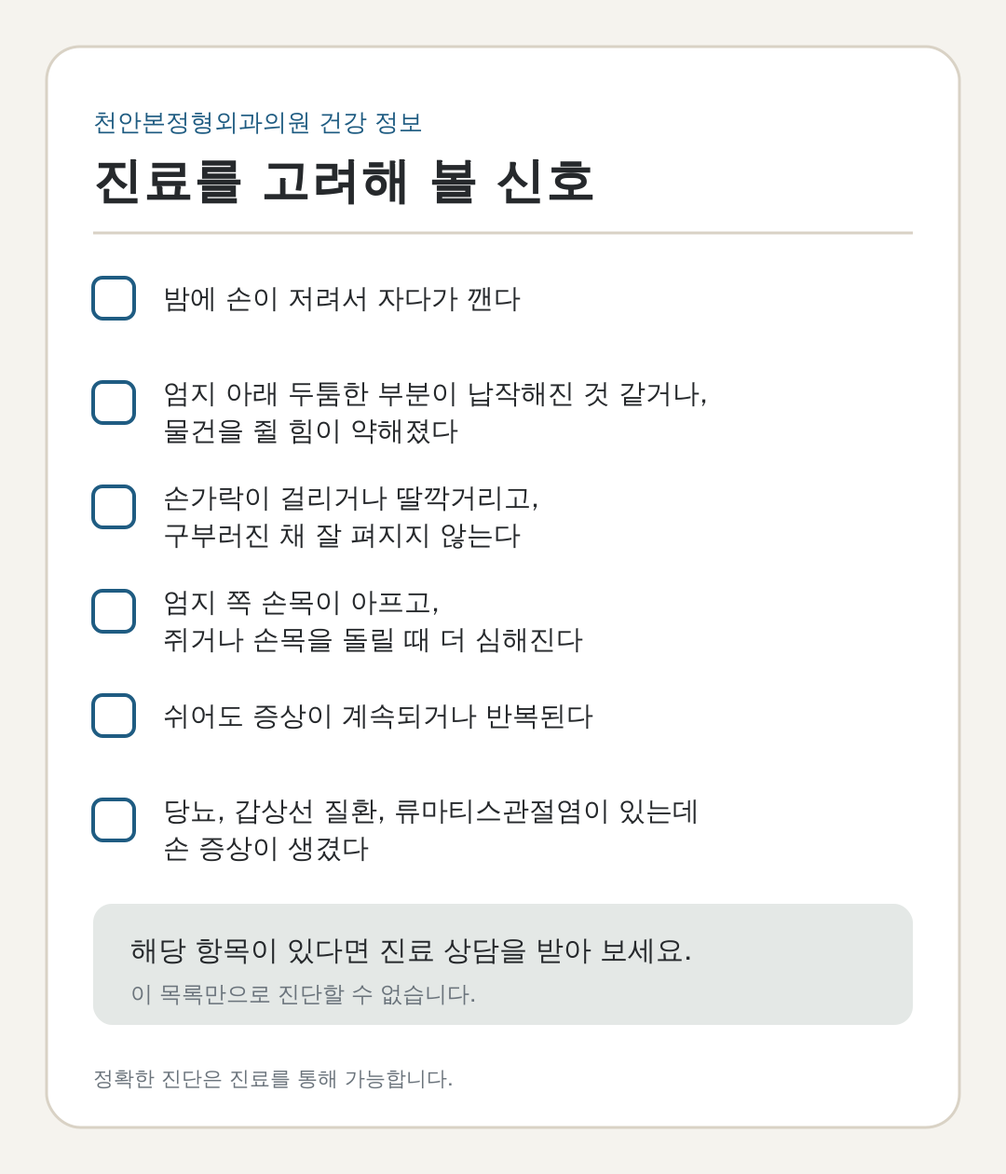
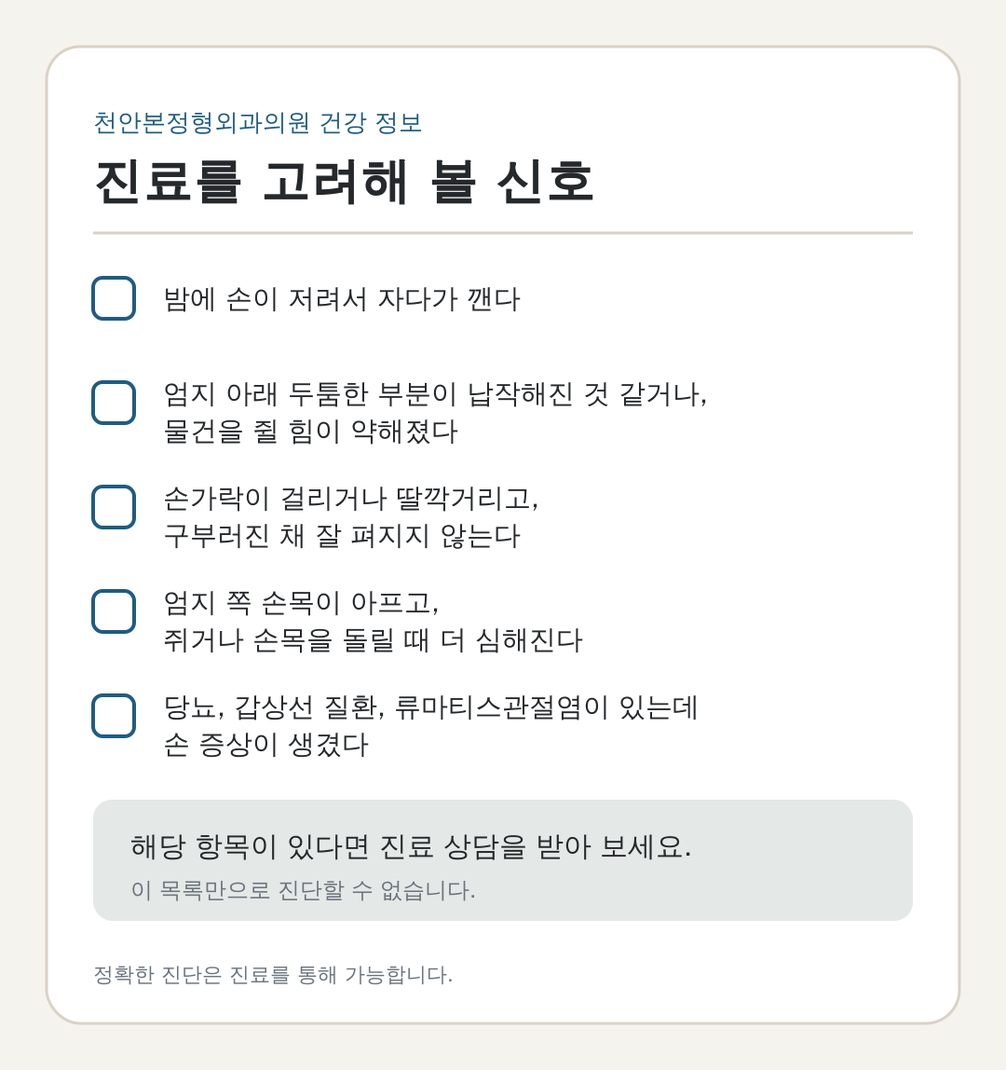
Soften title, drop unsupported checklist item, add publish checklist
Claude-Session: https://claude.ai/code/session_01NMjDGvHJeUMg3F3nsRL23D

Changed region(s): [[0.0611, 0.0915, 0.9472, 0.9756], [0.0306, 0.0305, 0.9472, 0.061]]

diff --git a/blog/output/kimjang-wrist-hand-pain/preview.html b/blog/output/kimjang-wrist-hand-pain/preview.html
@@ -26,7 +26,7 @@ footer{background:var(--navy);color:#cfdbe5;text-align:center;font-size:13px;pad
 @media(max-width:560px){td:first-child{white-space:normal}table{font-size:14px}}
 </style></head><body>
 <div class="banner">미리보기 · 병원 담당자 확인 전 초안입니다. 발행 전 확인 목록은 05_review.md 참고</div>
-<header><div class="wrap"><span class="brand">천안본정형외과의원 건강 정보</span><h1>김장 끝나고 손목과 손가락이 저리다면, 병원에 가야 하는 신호</h1></div></header>
-<article><div class="wrap"><figure><img src="images/01_hero_wrist_hand.png" alt="손목과 손가락 일러스트"></figure><p>김장철이 지나고 나서 손목이 뻐근하거나 손가락이 저린 적이 있으신가요? &quot;그냥 며칠 힘들어서 그런가?&quot; 하고 넘기다가도, 증상이 계속되면 걱정이 되실 수 있어요.</p><p>손목과 손가락의 저림, 통증에는 여러 원인이 있습니다. 이 글은 원인을 하나로 단정하지 않고, 어떤 증상이 있을 때 진료를 고려하면 좋을지 차분히 안내해 드리려고 합니다.</p><h2>손목과 손가락이 저리고 아플 때 생각해 볼 수 있는 상태</h2><p>손을 많이 쓴 뒤 불편을 느끼는 경우, 일반적으로 아래와 같은 상태가 알려져 있습니다. 다만 증상만으로 스스로 구분하기는 어렵습니다.</p><table><thead><tr><th>상태</th><th>알려진 특징</th></tr></thead><tbody><tr><td>손목터널증후군(수근관증후군)</td><td>손목에서 정중신경이 눌려 생기며, 엄지부터 넷째 손가락 쪽의 저림이 특징입니다. 새끼손가락에는 보통 증상이 없다고 알려져 있습니다.</td></tr><tr><td>방아쇠수지</td><td>손가락을 굽히는 힘줄과 그 통로에 염증이 생겨, 손가락을 펼 때 걸리거나 딸깍거리는 느낌이 나타날 수 있습니다. 아침에 뻣뻣하다가 시간이 지나 풀리기도 합니다.</td></tr><tr><td>드퀘르뱅병(손목 건초염)</td><td>엄지 쪽 손목의 힘줄이 붓고 아픈 상태로, 물건을 쥐거나 손목을 돌릴 때 심해질 수 있습니다.</td></tr></tbody></table><p>특정 작업이 이 질환들의 원인이라고 확정할 수 있는 것은 아니며, 정확한 원인은 개인마다 다를 수 있습니다.</p><h2>이런 증상이 있다면 병원 방문을 고려해 보세요</h2><p>아래 항목은 진료 상담을 고려할 때 참고하실 수 있는 예시이며, 이 목록만으로 진단할 수는 없습니다.</p><ul><li>밤에 손이 저려서 자다가 깬다</li><li>엄지 아래 두툼한 부분이 납작해진 것 같거나, 물건을 쥘 힘이 약해졌다</li><li>손가락이 걸리거나 딸깍거리고, 구부러진 채 잘 펴지지 않는다</li><li>엄지 쪽 손목이 아프고, 쥐거나 손목을 돌릴 때 더 심해진다</li><li>쉬어도 증상이 계속되거나 반복된다</li><li>당뇨, 갑상선 질환, 류마티스관절염이 있는데 손 증상이 생겼다</li></ul><p>증상이 갑자기 심해지거나 걱정되신다면, 진료 상담을 받아 보세요.</p><figure><img src="images/03_visit_signal_checklist.png" alt="병원 방문을 고려할 신호 6가지 체크리스트 카드"></figure><h2>병원에서는 어떻게 확인하나요</h2><p>위 신호에 해당해 병원을 찾으시면, 보통 아래와 같은 과정으로 살펴봅니다. 정형외과에서 상담받으실 수 있으며, 손 질환(수부) 진료 가능 여부는 병원마다 다를 수 있습니다.</p><ul><li>문진: 언제부터, 어느 손가락이, 밤에도 불편한지 등을 여쭙니다.</li><li>신체검진: 손목과 손가락을 눌러 보거나 특정 자세를 취해 보며 상태를 확인합니다. 손목터널증후군에서는 팔렌 검사와 틴넬 징후, 드퀘르뱅병에서는 핀켈슈타인 검사 같은 방법이 알려져 있습니다.</li><li>추가 검사: 필요하다고 판단되면 초음파나 신경전도검사 등을 고려할 수 있으며, 검사 종류는 병원마다 다를 수 있습니다.</li></ul><p>손목터널증후군은 검사 결과가 정상일 수 있어, 한 가지 검사보다 여러 소견을 종합해 판단한다고 알려져 있습니다.</p><p>진료 때 아래 내용을 정리해 가시면 도움이 됩니다.</p><ul><li>증상이 시작된 시기와 불편한 손가락</li><li>밤에 증상이 심해지는지 여부</li><li>복용 중인 약과 당뇨 등 기저질환</li></ul><h2>치료는 어떤 순서로 고려하나요</h2><p>치료는 증상과 검사 결과에 따라 달라집니다. 일반적으로는 아래 순서로 고려하는 것으로 알려져 있습니다.</p><ol><li>휴식과 손 사용 조절</li><li>보조기(부목) 사용, 소염진통제 등 약물</li><li>필요한 경우 주사 치료</li><li>보존적 치료로 호전이 없거나 진행된 경우 수술</li></ol><p>주사 치료는 선택지 중 하나이며, 효과의 지속 정도가 개인과 상태에 따라 다를 수 있습니다. 약물과 주사를 포함한 모든 치료에는 이점과 위험이 함께 있어, 개인의 상태에 맞는지는 의료진과 충분히 상의해서 결정하세요.</p><h2>진료 전 일상에서 유의할 점</h2><p>증상이 있는 동안에는 불편을 키우는 것 같은 동작을 잠시 줄이고, 손과 손목을 무리해서 쓰지 않도록 해 주세요. 증상이 이어진다면 혼자 참기보다 진료를 받아 보시길 권합니다.</p><h2>천안에서 진료를 알아보신다면</h2><p>천안에서 손목 통증으로 진료를 알아보고 계신다면 천안본정형외과의원에 문의하실 수 있습니다. 부담 갖지 마시고, 위에 적은 증상이 해당되는지 편하게 상담해 보세요.</p><ul><li>주소: 충남 천안시 서북구 불당대로 272 (쌍용동 220-42)</li><li>전화: 041-575-6000</li><li>진료시간: 월·화·수·금 09:00-18:00 (점심 13:00-14:00), 목요일 09:00-13:00, 토요일 09:00-12:00, 일요일·공휴일 휴진</li><li>진료 안내: 관절센터(무릎, 고관절, 어깨, 수부, 발목), 척추통증 클리닉</li><li>상담: 전화 또는 카카오톡 상담</li></ul><figure class="portrait"><img src="images/04_hospital_exterior.jpg" alt="천안본정형외과의원 건물 외관과 입구 간판"></figure><p>정확한 진단은 진료를 통해 가능합니다. 증상이 지속되면 전문의 상담을 받으세요.</p><blockquote>이 글은 일반적인 건강 정보 제공이 목적이며 개인의 진단과 치료를 대신하지 않습니다. 증상과 치료 방법은 개인별로 다를 수 있습니다.</blockquote><div class="tags"><span>#김장 후 손목 통증</span><span>#손목 저림</span><span>#손가락 저림</span><span>#손목터널증후군</span><span>#수근관증후군</span><span>#방아쇠수지</span><span>#드퀘르뱅병</span><span>#손목 건초염</span><span>#천안 정형외과</span><span>#천안본정형외과의원</span></div></div></article>
+<header><div class="wrap"><span class="brand">천안본정형외과의원 건강 정보</span><h1>김장 끝나고 손목과 손가락이 저리다면, 진료를 고려해 볼 신호</h1></div></header>
+<article><div class="wrap"><figure><img src="images/01_hero_wrist_hand.png" alt="손목과 손가락 일러스트"></figure><p>김장철이 지나고 나서 손목이 뻐근하거나 손가락이 저린 적이 있으신가요? &quot;그냥 며칠 힘들어서 그런가?&quot; 하고 넘기다가도, 증상이 계속되면 걱정이 되실 수 있어요.</p><p>손목과 손가락의 저림, 통증에는 여러 원인이 있습니다. 이 글은 원인을 하나로 단정하지 않고, 어떤 증상이 있을 때 진료를 고려하면 좋을지 차분히 안내해 드리려고 합니다.</p><h2>손목과 손가락이 저리고 아플 때 생각해 볼 수 있는 상태</h2><p>손을 많이 쓴 뒤 불편을 느끼는 경우, 일반적으로 아래와 같은 상태가 알려져 있습니다. 다만 증상만으로 스스로 구분하기는 어렵습니다.</p><table><thead><tr><th>상태</th><th>알려진 특징</th></tr></thead><tbody><tr><td>손목터널증후군(수근관증후군)</td><td>손목에서 정중신경이 눌려 생기며, 엄지부터 넷째 손가락 쪽의 저림이 특징입니다. 새끼손가락에는 보통 증상이 없다고 알려져 있습니다.</td></tr><tr><td>방아쇠수지</td><td>손가락을 굽히는 힘줄과 그 통로에 염증이 생겨, 손가락을 펼 때 걸리거나 딸깍거리는 느낌이 나타날 수 있습니다. 아침에 뻣뻣하다가 시간이 지나 풀리기도 합니다.</td></tr><tr><td>드퀘르뱅병(손목 건초염)</td><td>엄지 쪽 손목의 힘줄이 붓고 아픈 상태로, 물건을 쥐거나 손목을 돌릴 때 심해질 수 있습니다.</td></tr></tbody></table><p>특정 작업이 이 질환들의 원인이라고 확정할 수 있는 것은 아니며, 정확한 원인은 개인마다 다를 수 있습니다.</p><h2>이런 증상이 있다면 병원 방문을 고려해 보세요</h2><p>아래 항목은 진료 상담을 고려할 때 참고하실 수 있는 예시이며, 이 목록만으로 진단할 수는 없습니다.</p><ul><li>밤에 손이 저려서 자다가 깬다</li><li>엄지 아래 두툼한 부분이 납작해진 것 같거나, 물건을 쥘 힘이 약해졌다</li><li>손가락이 걸리거나 딸깍거리고, 구부러진 채 잘 펴지지 않는다</li><li>엄지 쪽 손목이 아프고, 쥐거나 손목을 돌릴 때 더 심해진다</li><li>당뇨, 갑상선 질환, 류마티스관절염이 있는데 손 증상이 생겼다</li></ul><p>증상이 갑자기 심해지거나 걱정되신다면, 진료 상담을 받아 보세요.</p><figure><img src="images/03_visit_signal_checklist.png" alt="병원 방문을 고려할 신호 6가지 체크리스트 카드"></figure><h2>병원에서는 어떻게 확인하나요</h2><p>위 신호에 해당해 병원을 찾으시면, 보통 아래와 같은 과정으로 살펴봅니다. 정형외과에서 상담받으실 수 있으며, 손 질환(수부) 진료 가능 여부는 병원마다 다를 수 있습니다.</p><ul><li>문진: 언제부터, 어느 손가락이, 밤에도 불편한지 등을 여쭙니다.</li><li>신체검진: 손목과 손가락을 눌러 보거나 특정 자세를 취해 보며 상태를 확인합니다. 손목터널증후군에서는 팔렌 검사와 틴넬 징후, 드퀘르뱅병에서는 핀켈슈타인 검사 같은 방법이 알려져 있습니다.</li><li>추가 검사: 필요하다고 판단되면 초음파나 신경전도검사 등을 고려할 수 있으며, 검사 종류는 병원마다 다를 수 있습니다.</li></ul><p>손목터널증후군은 검사 결과가 정상일 수 있어, 한 가지 검사보다 여러 소견을 종합해 판단한다고 알려져 있습니다.</p><p>진료 때 아래 내용을 정리해 가시면 도움이 됩니다.</p><ul><li>증상이 시작된 시기와 불편한 손가락</li><li>밤에 증상이 심해지는지 여부</li><li>복용 중인 약과 당뇨 등 기저질환</li></ul><h2>치료는 어떤 순서로 고려하나요</h2><p>치료는 증상과 검사 결과에 따라 달라집니다. 일반적으로는 아래 순서로 고려하는 것으로 알려져 있습니다.</p><ol><li>휴식과 손 사용 조절</li><li>보조기(부목) 사용, 소염진통제 등 약물</li><li>필요한 경우 주사 치료</li><li>보존적 치료로 호전이 없거나 진행된 경우 수술</li></ol><p>주사 치료는 선택지 중 하나이며, 효과의 지속 정도가 개인과 상태에 따라 다를 수 있습니다. 약물과 주사를 포함한 모든 치료에는 이점과 위험이 함께 있어, 개인의 상태에 맞는지는 의료진과 충분히 상의해서 결정하세요.</p><h2>진료 전 일상에서 유의할 점</h2><p>증상이 있는 동안에는 불편을 키우는 것 같은 동작을 잠시 줄이고, 손과 손목을 무리해서 쓰지 않도록 해 주세요. 증상이 이어진다면 혼자 참기보다 진료를 받아 보시길 권합니다.</p><h2>천안에서 진료를 알아보신다면</h2><p>천안에서 손목 통증으로 진료를 알아보고 계신다면 천안본정형외과의원에 문의하실 수 있습니다. 부담 갖지 마시고, 위에 적은 증상이 해당되는지 편하게 상담해 보세요.</p><ul><li>주소: 충남 천안시 서북구 불당대로 272 (쌍용동 220-42)</li><li>전화: 041-575-6000</li><li>진료시간: 월·화·수·금 09:00-18:00 (점심 13:00-14:00), 목요일 09:00-13:00, 토요일 09:00-12:00, 일요일·공휴일 휴진</li><li>진료 안내: 관절센터(무릎, 고관절, 어깨, 수부, 발목), 척추통증 클리닉</li><li>상담: 전화 또는 카카오톡 상담</li></ul><figure class="portrait"><img src="images/04_hospital_exterior.jpg" alt="천안본정형외과의원 건물 외관과 입구 간판"></figure><p>정확한 진단은 진료를 통해 가능합니다. 증상이 지속되면 전문의 상담을 받으세요.</p><blockquote>이 글은 일반적인 건강 정보 제공이 목적이며 개인의 진단과 치료를 대신하지 않습니다. 증상과 치료 방법은 개인별로 다를 수 있습니다.</blockquote><div class="tags"><span>#김장 후 손목 통증</span><span>#손목 저림</span><span>#손가락 저림</span><span>#손목터널증후군</span><span>#수근관증후군</span><span>#방아쇠수지</span><span>#드퀘르뱅병</span><span>#손목 건초염</span><span>#천안 정형외과</span><span>#천안본정형외과의원</span></div></div></article>
 <footer>천안본정형외과의원 · 일반적인 건강 정보 제공 목적의 글입니다</footer>
 </body></html>

diff --git a/blog/output/kimjang-wrist-hand-pain/03_draft.md b/blog/output/kimjang-wrist-hand-pain/03_draft.md
@@ -1,4 +1,4 @@
-# 김장 끝나고 손목과 손가락이 저리다면, 병원에 가야 하는 신호
+# 김장 끝나고 손목과 손가락이 저리다면, 진료를 고려해 볼 신호
 
 [IMAGE: 손목과 손가락을 감싸 쥐고 불편해하는 모습의 일반 일러스트 (전후 비교, 시술 장면 사용 금지)]
 
@@ -27,7 +27,6 @@
 - 엄지 아래 두툼한 부분이 납작해진 것 같거나, 물건을 쥘 힘이 약해졌다
 - 손가락이 걸리거나 딸깍거리고, 구부러진 채 잘 펴지지 않는다
 - 엄지 쪽 손목이 아프고, 쥐거나 손목을 돌릴 때 더 심해진다
-- 쉬어도 증상이 계속되거나 반복된다
 - 당뇨, 갑상선 질환, 류마티스관절염이 있는데 손 증상이 생겼다
 
 증상이 갑자기 심해지거나 걱정되신다면, 진료 상담을 받아 보세요.
@@ -115,15 +114,15 @@
 ### 4. 이미지 관련 메모
 - 4번 이미지(병원 외관): 병원 제공 사진 images/04_hospital_exterior.jpg 반영됨. 사용 허락·저작권 확인 필요.
 - 2번 이미지(해부 일러스트): 정확성 문제로 제외, 본문에서 [IMAGE] 자리 삭제함. 의료진 검수 후 전문가 제작본이 생기면 표 아래에 추가.
-- 3번 이미지(체크리스트): 방문 신호 6항목 문구는 이번 수정에서 바꾸지 않았습니다. 04는 6번을 "당뇨, 갑상선 질환, 류마티스관절염이 있는데 손 증상이 생겼다", 4번을 본문 "엄지 쪽 손목이 아프고, 쥐거나 손목을 돌릴 때 더 심해진다"와 동일하게 맞추면 됩니다.
+- 3번 이미지(체크리스트): 방문 신호 5항목 문구와 일치하도록 재제작됨(3차 수정에서 "쉬어도 증상이 계속되거나 반복된다" 항목 삭제).
 - 04에 알릴 변경 사항: 체크리스트 항목 문구 변경 없음. 체크리스트 위 안내 문장만 "이 목록만으로 진단할 수는 없습니다"를 포함하도록 바뀌었으며, 이미지 하단 문구와 취지가 같습니다.
 
 ### 5. 원문 대조·의료인 확인 필요
-- 방문 신호 5번 "쉬어도 증상이 계속되거나 반복된다": 기관 근거가 없고 언론 수준이라 의료인 확인 항목. 본문에서는 체크리스트 위에 "참고하실 수 있는 예시이며 진단할 수 없다"는 문장을 두어 단정 표현을 피함. 의료인이 문구 수정이나 삭제를 요청하면 이미지(03)에도 반영해야 하므로 04에 알릴 것.
+- 방문 신호: 기관 근거가 없던 "쉬어도 증상이 계속되거나 반복된다" 항목은 3차 수정에서 삭제함.
 - 드퀘르뱅병 "쥐거나 손목을 돌릴 때 심해질 수 있다", 핀켈슈타인 검사, 방문 신호 4번은 해외 기관(AAOS, Mayo Clinic) 요약 기반. 원문 대조 필요.
 - 손목터널증후군 "검사 정상일 수 있음"은 세브란스병원 설명(검색 요약 기준) 근거. 원문 대조 필요.
 - 모든 출처는 검색 요약 기준으로만 확인했으며 원문 열람과 게시일/수정일 확인이 끝나지 않았음. 대조가 끝나면 열람일을 표기해 출처 목록을 본문에 넣고, 끝나지 않으면 병원 담당 의료인이 사실 관계를 확인한 뒤에만 출처를 표기.
-- 방문 신호 6항목, 치료 순서, 검사 설명 전반의 의료인 검수 필요.
+- 방문 신호 5항목, 치료 순서, 검사 설명 전반의 의료인 검수 필요.
 
 ### 6. 참고 출처 후보 (원문 대조 필요, 발행 본문에는 아직 넣지 않음)
 1. 질병관리청 국가건강정보포털, 수근굴(수근관) 증후군: https://health.kdca.go.kr/healthinfo/biz/health/gnrlzHealthInfo/gnrlzHealthInfo/gnrlzHealthInfoView.do?cntnts_sn=6292

diff --git a/blog/output/kimjang-wrist-hand-pain/04_images.md b/blog/output/kimjang-wrist-hand-pain/04_images.md
@@ -27,16 +27,15 @@
 
 ### 3. 체크리스트 카드 (초안 42행, 번호는 기존 유지)
 - 파일: images/03_visit_signal_checklist.png (1080x1260), 원본 images/03_visit_signal_checklist.svg
-- 구도: 흰 카드, 체크박스 6항목, 하단 안내 박스. 긴 항목은 2줄로 줄바꿈(문구는 축약하지 않음).
+- 구도: 흰 카드, 체크박스 5항목, 하단 안내 박스. 긴 항목은 2줄로 줄바꿈(문구는 축약하지 않음).
 - 항목 문구(03_draft.md 33~38행과 동일, 줄바꿈 위치만 다름):
   1. 밤에 손이 저려서 자다가 깬다
   2. 엄지 아래 두툼한 부분이 납작해진 것 같거나, 물건을 쥘 힘이 약해졌다
   3. 손가락이 걸리거나 딸깍거리고, 구부러진 채 잘 펴지지 않는다
   4. 엄지 쪽 손목이 아프고, 쥐거나 손목을 돌릴 때 더 심해진다
-  5. 쉬어도 증상이 계속되거나 반복된다
-  6. 당뇨, 갑상선 질환, 류마티스관절염이 있는데 손 증상이 생겼다
+  5. 당뇨, 갑상선 질환, 류마티스관절염이 있는데 손 증상이 생겼다
 - 기타 문구: "해당 항목이 있다면 진료 상담을 받아 보세요. 이 목록만으로 진단할 수 없습니다." "정확한 진단은 진료를 통해 가능합니다."
-- 대체텍스트: 병원 방문을 고려할 신호 6가지(밤에 저려서 자다가 깸, 엄지 아래 납작해짐 또는 쥘 힘 약화, 손가락 걸림과 잘 펴지지 않음, 엄지 쪽 손목 통증과 쥐거나 돌릴 때 악화, 쉬어도 지속·반복, 당뇨 등 질환이 있는데 손 증상이 생김)를 담은 체크리스트 카드
+- 대체텍스트: 병원 방문을 고려할 신호 5가지(밤에 저려서 자다가 깸, 엄지 아래 납작해짐 또는 쥘 힘 약화, 손가락 걸림과 잘 펴지지 않음, 엄지 쪽 손목 통증과 쥐거나 돌릴 때 악화, 당뇨 등 질환이 있는데 손 증상이 생김)를 담은 체크리스트 카드
 - 출처/라이선스: 자체 제작 SVG.
 - 주의: 5번 항목은 기관 근거가 없어 의료인 확인 대상(05_review). 작성팀이 초안 체크리스트 문구를 바꾸면 이 이미지도 다시 맞춰야 합니다(현재는 문구 유지로 합의).
 
@@ -70,3 +69,6 @@
   - 주차장: 인근 업소 간판과 차량이 찍혀 있음.
   - 골밀도 장비, 도수치료실, 충격파·물리치료실, 재활운동 공간, 출입구: 이번 글 주제(손목·손가락 진료 신호)와 무관. 장비·치료 홍보로 보일 수 있어 심의 확인 후 별도 글에서 사용 검토.
 - 확인 필요: 사진 사용 허락. (병원명은 "천안본정형외과의원"로 담당자 확인 완료)
+
+## 3차 수정 (2026-10-12)
+- 방문 신호 "쉬어도 증상이 계속되거나 반복된다" 항목 삭제(기관 근거 없음). 체크리스트 이미지 5항목으로 재제작.

diff --git a/blog/output/kimjang-wrist-hand-pain/06_publish.md b/blog/output/kimjang-wrist-hand-pain/06_publish.md
@@ -3,13 +3,13 @@
 상태: AI 검수 통과, 병원 확인 대기. 발행 완료 아님. 병원 담당자(의료인)가 05_review.md의 '병원 담당자 확인 필요 목록'을 확인한 뒤에만 발행할 수 있습니다.
 
 ## 제목
-김장 끝나고 손목과 손가락이 저리다면, 병원에 가야 하는 신호
+김장 끝나고 손목과 손가락이 저리다면, 진료를 고려해 볼 신호
 
 ## 이미지 순서
 1. 대표 이미지 (제목 아래, 도입 직전): images/01_hero_wrist_hand.png
    - 대체텍스트: 손목과 손가락 주변에 물결 표시가 있는 단순한 손 일러스트와 "손목과 손가락이 계속 불편하다면" 문구
 2. 체크리스트 카드 ("이런 증상이 있다면" 목록 아래): images/03_visit_signal_checklist.png
-   - 대체텍스트: 병원 방문을 고려할 신호 6가지(밤에 저려서 자다가 깸, 엄지 아래 납작해짐 또는 쥘 힘 약화, 손가락 걸림과 잘 펴지지 않음, 엄지 쪽 손목 통증과 쥐거나 돌릴 때 악화, 쉬어도 지속·반복, 당뇨 등 질환이 있는데 손 증상이 생김)를 담은 체크리스트 카드
+   - 대체텍스트: 병원 방문을 고려할 신호 5가지(밤에 저려서 자다가 깸, 엄지 아래 납작해짐 또는 쥘 힘 약화, 손가락 걸림과 잘 펴지지 않음, 엄지 쪽 손목 통증과 쥐거나 돌릴 때 악화, 당뇨 등 질환이 있는데 손 증상이 생김)를 담은 체크리스트 카드
 3. 병원 외관 (본문 마지막, 면책 문구 위): images/04_hospital_exterior.jpg (병원 제공 사진, 직원이 전달)
    - 대체텍스트: 천안본정형외과의원 건물 외관과 입구 간판
    - 발행 전 확인: 사진 사용 허락과 촬영 저작권(직원 제공이라 병원 보유로 보이나 확인 필요).
@@ -43,7 +43,6 @@
 - 엄지 아래 두툼한 부분이 납작해진 것 같거나, 물건을 쥘 힘이 약해졌다
 - 손가락이 걸리거나 딸깍거리고, 구부러진 채 잘 펴지지 않는다
 - 엄지 쪽 손목이 아프고, 쥐거나 손목을 돌릴 때 더 심해진다
-- 쉬어도 증상이 계속되거나 반복된다
 - 당뇨, 갑상선 질환, 류마티스관절염이 있는데 손 증상이 생겼다
 
 증상이 갑자기 심해지거나 걱정되신다면, 진료 상담을 받아 보세요.

diff --git a/blog/output/kimjang-wrist-hand-pain/PUBLISH_CHECKLIST.md b/blog/output/kimjang-wrist-hand-pain/PUBLISH_CHECKLIST.md
@@ -1,0 +1,21 @@
+# 발행 전 체크리스트 (담당자용)
+
+AI가 할 수 있는 수정은 끝났고, 아래는 사람이 해야 하는 확인입니다. 이 항목이 끝나기 전에는 발행하지 마세요.
+
+- [ ] 출처 8건 원문 대조 (01_research.md 출처 목록, 게시일 포함)
+- [ ] 본문 의학 내용 의료인 검수 (치료 순서, 검사 설명, 방문 신호 5항목)
+- [ ] 의료광고 심의 대상 여부 확인 (대상이면 심의번호 표기 등 절차)
+- [ ] 병원 외관 사진 사용 허락 확인 (images/04_hospital_exterior.jpg)
+- [ ] 진료 시간·전화·주소를 발행 직전 홈페이지와 대조
+- [ ] 병원 명칭이 등록 명칭(천안본정형외과의원)과 일치하는지 마지막 확인
+- [ ] 발행 일시 결정 (담당자가 직접)
+
+## 발행 방법 (네이버 블로그)
+1. 06_publish.md의 제목과 본문 복사 (맨 위 상태 안내와 '이미지 순서' 안내는 제외)
+2. 본문의 [이미지 1~3] 자리에 images/ 폴더의 파일을 순서대로 삽입 (대체텍스트는 06_publish.md 참고)
+   - 1: 01_hero_wrist_hand.png, 2: 03_visit_signal_checklist.png, 3: 04_hospital_exterior.jpg
+3. 태그 입력 후 발행
+
+## 참고
+- 예약: 온라인 예약은 제공하지 않음(담당자 확인). 본문에는 전화·카카오톡 상담만 안내.
+- 해부 일러스트는 정확성 문제로 제외(images/_excluded/). 쓰려면 전문가 제작과 의료인 검수 필요.

diff --git a/blog/output/kimjang-wrist-hand-pain/05_review.md b/blog/output/kimjang-wrist-hand-pain/05_review.md
@@ -253,3 +253,10 @@ AI 검수 범위(표현, 의료광고 사전점검, 개인정보, 품질, 일관
 - 홈페이지 메뉴 캡처 확인: 관절센터에 "수부" 진료 안내가 있음 → '수부 진료 가능 여부' 확인 항목 해소. 척추통증 클리닉, 카카오톡 상담도 확인.
 - 병원 안내 단락에 진료 안내(관절센터, 척추통증 클리닉)와 상담 방법(전화, 카카오톡)을 추가.
 - 예약 방식(온라인 예약 여부)은 여전히 미확인.
+
+## 담당자 회신 6 및 3차 수정 (2026-10-12)
+- 온라인 예약 미제공 확인. 본문은 전화·카카오톡 상담만 안내하므로 수정 없음.
+- 담당자 위임("알아서")에 따라 AI가 처리 가능한 2건을 수정:
+  1. 제목 순화: "병원에 가야 하는 신호" → "진료를 고려해 볼 신호"
+  2. 기관 근거가 없던 방문 신호 5번("쉬어도 증상이 계속되거나 반복된다") 삭제, 체크리스트 이미지 5항목으로 재제작
+- 사람이 해야 하는 항목은 PUBLISH_CHECKLIST.md에 정리: 출처 원문 대조, 의료인 검수, 광고 심의 여부, 사진 사용 허락, 진료시간 대조.
